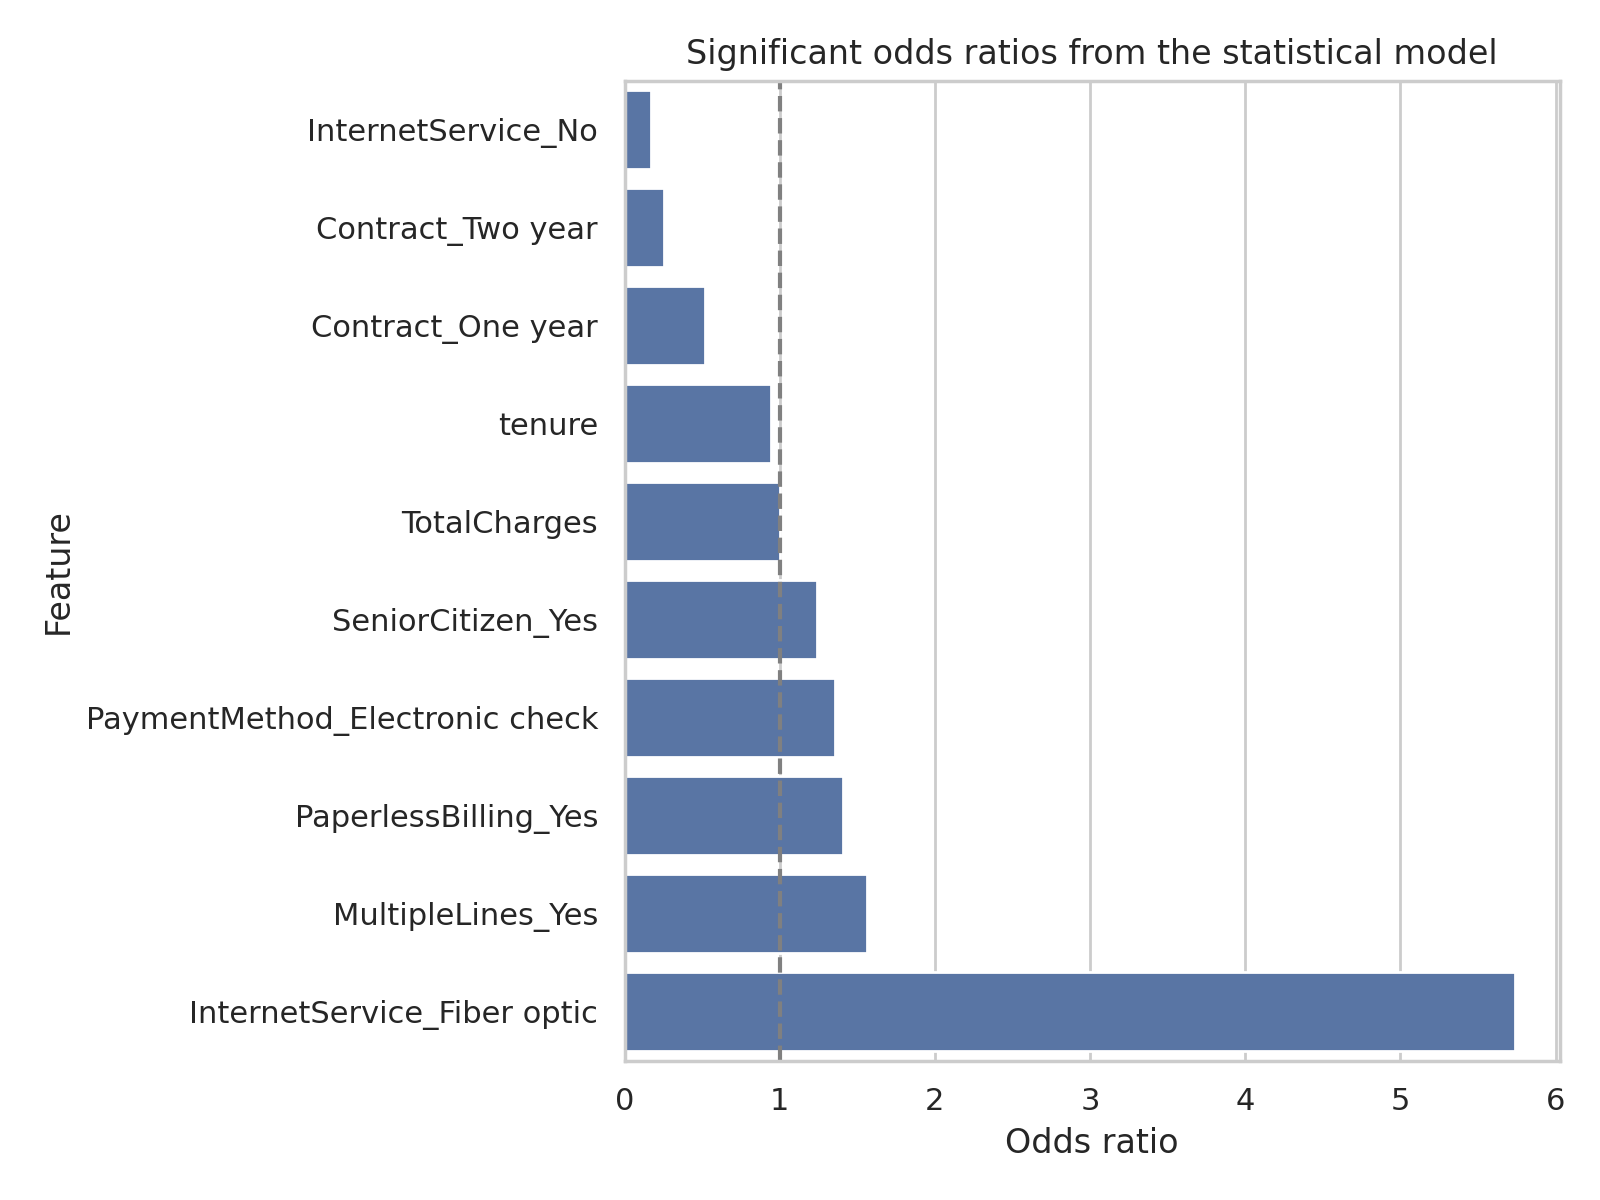
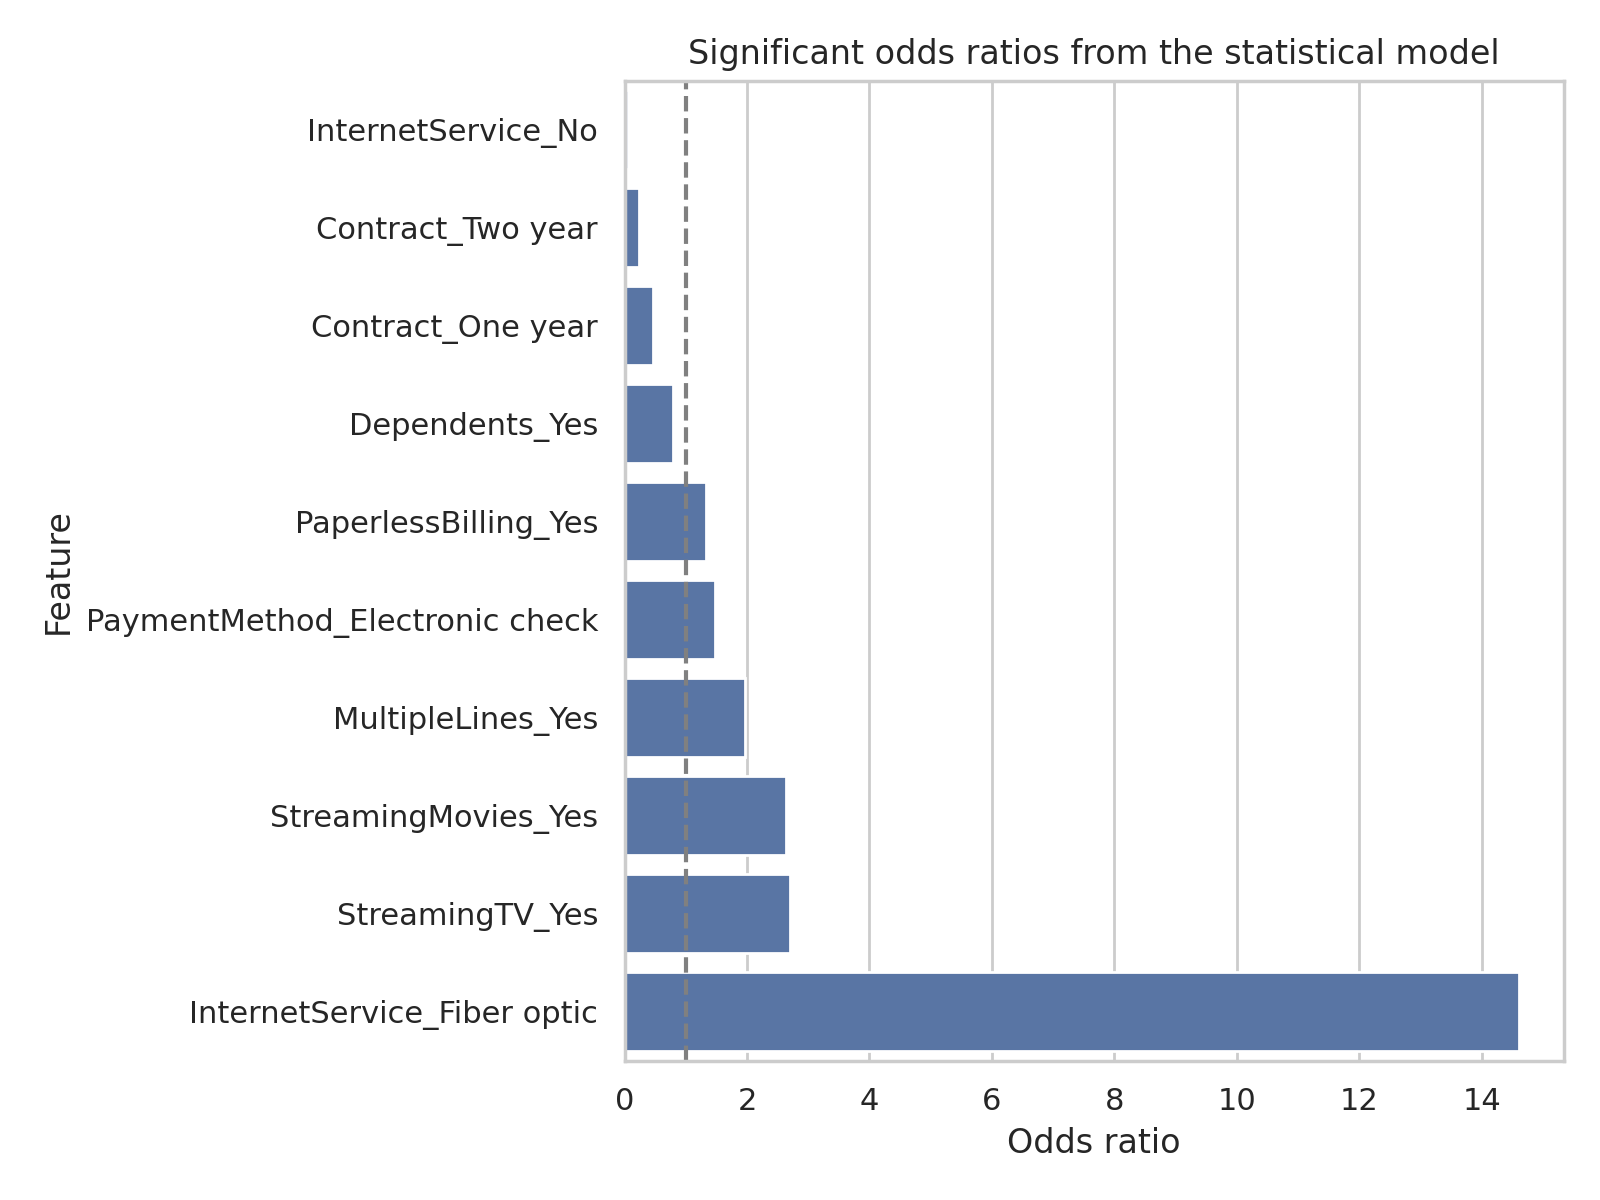
fix: align churn analysis validation workflow

diff --git a/analysis_run.py b/analysis_run.py
@@ -32,7 +32,6 @@ DATA_DIR = REPO_ROOT / 'data'
 REPORTS_DIR = REPO_ROOT / 'reports'
 FIGURES_DIR = REPORTS_DIR / 'figures'
 DEFAULT_REMOTE_URL = 'https://raw.githubusercontent.com/treselle-systems/customer_churn_analysis/master/WA_Fn-UseC_-Telco-Customer-Churn.csv'
-DEFAULT_WINDOWS_PATH = r'C:\Users\Yawo Faustin AZIAKPO\Downloads\CST-570-RS-WAFn-UseC-Telco-Customer-Churn.xlsx'
 RAW_DATA_PATH = DATA_DIR / 'WA_Fn-UseC_-Telco-Customer-Churn.csv'
 PREPARED_DATA_PATH = DATA_DIR / 'prepared_telco_customer_churn.csv'
 REPORT_PATH = REPORTS_DIR / 'logistic_regression_analysis_report.md'
@@ -50,10 +49,6 @@ def ensure_directories() -> None:
 def resolve_input_path(cli_path: str | None) -> tuple[str, str]:
     if cli_path:
         return cli_path, 'user supplied file'
-
-    windows_path = Path(DEFAULT_WINDOWS_PATH)
-    if windows_path.exists():
-        return str(windows_path), 'assignment Excel path'
 
     local_excel = DATA_DIR / 'CST-570-RS-WAFn-UseC-Telco-Customer-Churn.xlsx'
     if local_excel.exists():
@@ -81,7 +76,7 @@ def prepare_dataset(raw_df: pd.DataFrame) -> tuple[pd.DataFrame, dict[str, int]]
     df.columns = [column.strip() for column in df.columns]
 
     for column in df.select_dtypes(include='object').columns:
-        df[column] = df[column].astype(str).str.strip()
+        df[column] = df[column].map(lambda value: value.strip() if isinstance(value, str) else value)
 
     df['TotalCharges'] = pd.to_numeric(df['TotalCharges'], errors='coerce')
     missing_totalcharges = int(df['TotalCharges'].isna().sum())
@@ -273,9 +268,9 @@ def fit_models(df: pd.DataFrame) -> dict[str, object]:
     feature_names = pipeline.named_steps['preprocess'].get_feature_names_out()
     coefficients = pd.Series(pipeline.named_steps['model'].coef_[0], index=feature_names)
 
-    statsmodels_X = pd.get_dummies(X, drop_first=True, dtype=float)
-    statsmodels_X = sm.add_constant(statsmodels_X)
-    statsmodels_model = sm.Logit(y, statsmodels_X).fit(disp=False, maxiter=200)
+    statsmodels_X_train = pd.get_dummies(X_train, drop_first=True, dtype=float)
+    statsmodels_X_train = sm.add_constant(statsmodels_X_train)
+    statsmodels_model = sm.Logit(y_train, statsmodels_X_train).fit(disp=False, maxiter=200)
     summary_frame = statsmodels_model.summary2().tables[1].copy()
     summary_frame['odds_ratio'] = np.exp(summary_frame['Coef.'])
     summary_frame['ci_lower_or'] = np.exp(summary_frame['Coef.'] - 1.96 * summary_frame['Std.Err.'])
@@ -329,7 +324,10 @@ def plot_model_outputs(results: dict[str, object]) -> None:
     plt.close(fig)
 
     fig, ax = plt.subplots(figsize=(7, 5))
-    score_df = pd.DataFrame({'Actual churn': y_test.map({0: 'No', 1: 'Yes'}), 'Predicted probability': y_prob})
+    score_df = pd.DataFrame({
+        'Actual churn': y_test.map({0: 'No', 1: 'Yes'}).to_numpy(),
+        'Predicted probability': y_prob,
+    })
     sns.kdeplot(data=score_df, x='Predicted probability', hue='Actual churn', common_norm=False, fill=True, ax=ax)
     ax.set_title('Predicted churn probabilities by actual class')
     fig.tight_layout()

diff --git a/reports/logistic_regression_analysis_report.md b/reports/logistic_regression_analysis_report.md
@@ -109,16 +109,16 @@ The model achieves **80.4% accuracy** and an **ROC AUC of 0.836**, which indicat
 #### Most statistically significant predictors
 | Feature | Coefficient | Odds ratio | p-value | Effect on churn odds |
 | --- | --- | --- | --- | --- |
-| tenure | -0.061 | 0.9412 | <0.0001 | lower |
-| Contract = Two year | -1.357 | 0.2574 | <0.0001 | lower |
-| Contract = One year | -0.661 | 0.5164 | <0.0001 | lower |
+| tenure | -0.058 | 0.9441 | <0.0001 | lower |
+| Contract = Two year | -1.415 | 0.2428 | <0.0001 | lower |
+| Contract = One year | -0.762 | 0.4667 | <0.0001 | lower |
 | TotalCharges | 0.000 | 1.0003 | <0.0001 | higher |
-| PaperlessBilling = Yes | 0.342 | 1.4083 | <0.0001 | higher |
-| PaymentMethod = Electronic check | 0.304 | 1.3559 | 0.0013 | higher |
-| SeniorCitizen = Yes | 0.217 | 1.2421 | 0.0103 | higher |
-| MultipleLines = Yes | 0.448 | 1.5658 | 0.0114 | higher |
-| InternetService = No | -1.786 | 0.1676 | 0.0269 | lower |
-| InternetService = Fiber optic | 1.747 | 5.7401 | 0.0286 | higher |
+| PaymentMethod = Electronic check | 0.386 | 1.4704 | 0.0003 | higher |
+| PaperlessBilling = Yes | 0.289 | 1.3354 | 0.0005 | higher |
+| MultipleLines = Yes | 0.677 | 1.9689 | 0.0007 | higher |
+| InternetService = No | -2.730 | 0.0652 | 0.0028 | lower |
+| InternetService = Fiber optic | 2.682 | 14.6112 | 0.0030 | higher |
+| StreamingTV = Yes | 0.997 | 2.7090 | 0.0069 | higher |
 
 Interpretation highlights:
 - Longer **tenure** reduces churn odds substantially.
@@ -148,12 +148,12 @@ Using the logistic regression significance tests, the strongest variables associ
 - `Contract = Two year`
 - `Contract = One year`
 - `TotalCharges`
-- `PaperlessBilling = Yes`
 - `PaymentMethod = Electronic check`
-- `SeniorCitizen = Yes`
+- `PaperlessBilling = Yes`
 - `MultipleLines = Yes`
 - `InternetService = No`
 - `InternetService = Fiber optic`
+- `StreamingTV = Yes`
 
 In practical business terms, customer commitment structure (contract length), billing/payment behavior, and service configuration explain the largest share of churn risk.
 

diff --git a/README.md b/README.md
@@ -12,7 +12,7 @@ This repository contains a reproducible logistic regression analysis of the IBM 
 
 ## Data source
 
-The script first looks for the assignment Excel workbook (`C:\Users\Yawo Faustin AZIAKPO\Downloads\CST-570-RS-WAFn-UseC-Telco-Customer-Churn.xlsx` or a copy placed in `data/`). If that file is unavailable, it uses a public mirror of the IBM Telco Customer Churn CSV and caches it in `data/WA_Fn-UseC_-Telco-Customer-Churn.csv`.
+The script first looks for a repository-local copy of the assignment Excel workbook in `data/CST-570-RS-WAFn-UseC-Telco-Customer-Churn.xlsx`. If no local workbook is present, it uses a public mirror of the IBM Telco Customer Churn CSV and caches it in `data/WA_Fn-UseC_-Telco-Customer-Churn.csv`. You can also point the workflow at any local Excel or CSV file with `--input-path`.
 
 ## Run the workflow
 
